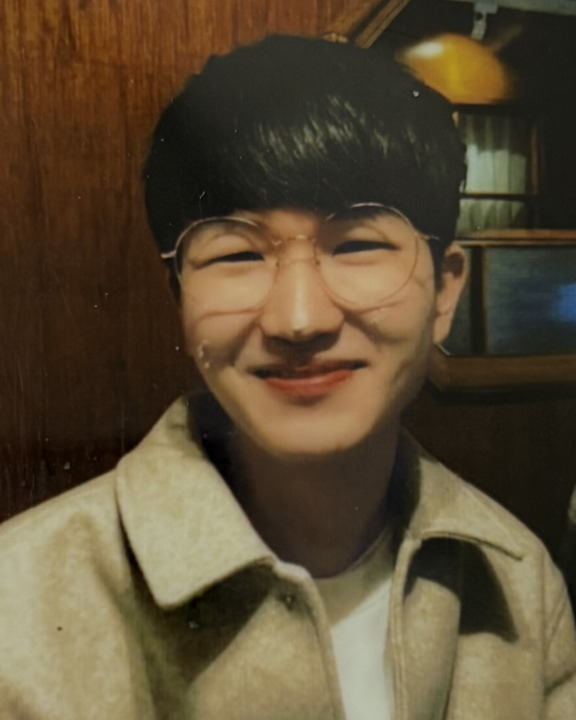
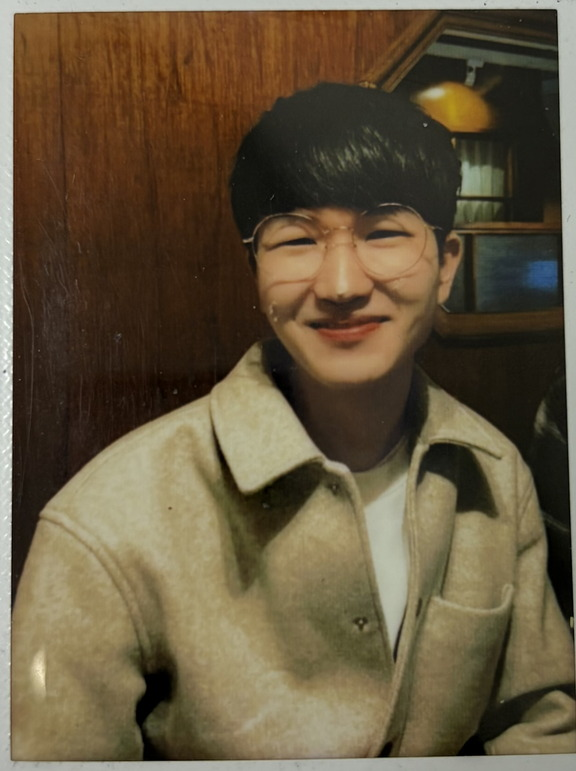
Show the full uncropped portrait; match the plate to its ratio

diff --git a/index.html b/index.html
@@ -55,8 +55,8 @@
          a skyrmion lattice, so the layout never breaks. -->
     <figure class="rail plate-fig">
       <div class="plate">
-        <svg class="plate__lattice" viewBox="0 0 144 180" aria-hidden="true" focusable="false" xmlns="http://www.w3.org/2000/svg"><defs><pattern id="skyrmions" patternUnits="userSpaceOnUse" x="0" y="0" width="48" height="90"><path class="spin s0" d="M24 5.5A17 17 0 0 1 36.02 10.48L28.24 18.26A6 6 0 0 0 24 16.5Z" fill="#DA347B"/><path class="spin s1" d="M36.02 10.48A17 17 0 0 1 41 22.5L30 22.5A6 6 0 0 0 28.24 18.26Z" fill="#C55F2A"/><path class="spin s2" d="M41 22.5A17 17 0 0 1 36.02 34.52L28.24 26.74A6 6 0 0 0 30 22.5Z" fill="#987D2B"/><path class="spin s3" d="M36.02 34.52A17 17 0 0 1 24 39.5L24 28.5A6 6 0 0 0 28.24 26.74Z" fill="#56932C"/><path class="spin s4" d="M24 39.5A17 17 0 0 1 11.98 34.52L19.76 26.74A6 6 0 0 0 24 28.5Z" fill="#319282"/><path class="spin s5" d="M11.98 34.52A17 17 0 0 1 7 22.5L18 22.5A6 6 0 0 0 19.76 26.74Z" fill="#308CAC"/><path class="spin s6" d="M7 22.5A17 17 0 0 1 11.98 10.48L19.76 18.26A6 6 0 0 0 18 22.5Z" fill="#5774ED"/><path class="spin s7" d="M11.98 10.48A17 17 0 0 1 24 5.5L24 16.5A6 6 0 0 0 19.76 18.26Z" fill="#B638E4"/><circle class="core" cx="24" cy="22.5" r="6" fill="#2B323B"/><path class="spin s0" d="M0 50.5A17 17 0 0 1 12.02 55.48L4.24 63.26A6 6 0 0 0 0 61.5Z" fill="#DA347B"/><path class="spin s1" d="M12.02 55.48A17 17 0 0 1 17 67.5L6 67.5A6 6 0 0 0 4.24 63.26Z" fill="#C55F2A"/><path class="spin s2" d="M17 67.5A17 17 0 0 1 12.02 79.52L4.24 71.74A6 6 0 0 0 6 67.5Z" fill="#987D2B"/><path class="spin s3" d="M12.02 79.52A17 17 0 0 1 0 84.5L0 73.5A6 6 0 0 0 4.24 71.74Z" fill="#56932C"/><path class="spin s4" d="M0 84.5A17 17 0 0 1 -12.02 79.52L-4.24 71.74A6 6 0 0 0 0 73.5Z" fill="#319282"/><path class="spin s5" d="M-12.02 79.52A17 17 0 0 1 -17 67.5L-6 67.5A6 6 0 0 0 -4.24 71.74Z" fill="#308CAC"/><path class="spin s6" d="M-17 67.5A17 17 0 0 1 -12.02 55.48L-4.24 63.26A6 6 0 0 0 -6 67.5Z" fill="#5774ED"/><path class="spin s7" d="M-12.02 55.48A17 17 0 0 1 0 50.5L0 61.5A6 6 0 0 0 -4.24 63.26Z" fill="#B638E4"/><circle class="core" cx="0" cy="67.5" r="6" fill="#2B323B"/><path class="spin s0" d="M48 50.5A17 17 0 0 1 60.02 55.48L52.24 63.26A6 6 0 0 0 48 61.5Z" fill="#DA347B"/><path class="spin s1" d="M60.02 55.48A17 17 0 0 1 65 67.5L54 67.5A6 6 0 0 0 52.24 63.26Z" fill="#C55F2A"/><path class="spin s2" d="M65 67.5A17 17 0 0 1 60.02 79.52L52.24 71.74A6 6 0 0 0 54 67.5Z" fill="#987D2B"/><path class="spin s3" d="M60.02 79.52A17 17 0 0 1 48 84.5L48 73.5A6 6 0 0 0 52.24 71.74Z" fill="#56932C"/><path class="spin s4" d="M48 84.5A17 17 0 0 1 35.98 79.52L43.76 71.74A6 6 0 0 0 48 73.5Z" fill="#319282"/><path class="spin s5" d="M35.98 79.52A17 17 0 0 1 31 67.5L42 67.5A6 6 0 0 0 43.76 71.74Z" fill="#308CAC"/><path class="spin s6" d="M31 67.5A17 17 0 0 1 35.98 55.48L43.76 63.26A6 6 0 0 0 42 67.5Z" fill="#5774ED"/><path class="spin s7" d="M35.98 55.48A17 17 0 0 1 48 50.5L48 61.5A6 6 0 0 0 43.76 63.26Z" fill="#B638E4"/><circle class="core" cx="48" cy="67.5" r="6" fill="#2B323B"/></pattern></defs><rect width="144" height="180" fill="url(#skyrmions)"/></svg>
-        <img src="portrait.jpg" alt="Seonpyo Kim" width="576" height="720" onerror="this.remove()">
+        <svg class="plate__lattice" viewBox="0 0 144 180" preserveAspectRatio="xMidYMid slice" aria-hidden="true" focusable="false" xmlns="http://www.w3.org/2000/svg"><defs><pattern id="skyrmions" patternUnits="userSpaceOnUse" x="0" y="0" width="48" height="90"><path class="spin s0" d="M24 5.5A17 17 0 0 1 36.02 10.48L28.24 18.26A6 6 0 0 0 24 16.5Z" fill="#DA347B"/><path class="spin s1" d="M36.02 10.48A17 17 0 0 1 41 22.5L30 22.5A6 6 0 0 0 28.24 18.26Z" fill="#C55F2A"/><path class="spin s2" d="M41 22.5A17 17 0 0 1 36.02 34.52L28.24 26.74A6 6 0 0 0 30 22.5Z" fill="#987D2B"/><path class="spin s3" d="M36.02 34.52A17 17 0 0 1 24 39.5L24 28.5A6 6 0 0 0 28.24 26.74Z" fill="#56932C"/><path class="spin s4" d="M24 39.5A17 17 0 0 1 11.98 34.52L19.76 26.74A6 6 0 0 0 24 28.5Z" fill="#319282"/><path class="spin s5" d="M11.98 34.52A17 17 0 0 1 7 22.5L18 22.5A6 6 0 0 0 19.76 26.74Z" fill="#308CAC"/><path class="spin s6" d="M7 22.5A17 17 0 0 1 11.98 10.48L19.76 18.26A6 6 0 0 0 18 22.5Z" fill="#5774ED"/><path class="spin s7" d="M11.98 10.48A17 17 0 0 1 24 5.5L24 16.5A6 6 0 0 0 19.76 18.26Z" fill="#B638E4"/><circle class="core" cx="24" cy="22.5" r="6" fill="#2B323B"/><path class="spin s0" d="M0 50.5A17 17 0 0 1 12.02 55.48L4.24 63.26A6 6 0 0 0 0 61.5Z" fill="#DA347B"/><path class="spin s1" d="M12.02 55.48A17 17 0 0 1 17 67.5L6 67.5A6 6 0 0 0 4.24 63.26Z" fill="#C55F2A"/><path class="spin s2" d="M17 67.5A17 17 0 0 1 12.02 79.52L4.24 71.74A6 6 0 0 0 6 67.5Z" fill="#987D2B"/><path class="spin s3" d="M12.02 79.52A17 17 0 0 1 0 84.5L0 73.5A6 6 0 0 0 4.24 71.74Z" fill="#56932C"/><path class="spin s4" d="M0 84.5A17 17 0 0 1 -12.02 79.52L-4.24 71.74A6 6 0 0 0 0 73.5Z" fill="#319282"/><path class="spin s5" d="M-12.02 79.52A17 17 0 0 1 -17 67.5L-6 67.5A6 6 0 0 0 -4.24 71.74Z" fill="#308CAC"/><path class="spin s6" d="M-17 67.5A17 17 0 0 1 -12.02 55.48L-4.24 63.26A6 6 0 0 0 -6 67.5Z" fill="#5774ED"/><path class="spin s7" d="M-12.02 55.48A17 17 0 0 1 0 50.5L0 61.5A6 6 0 0 0 -4.24 63.26Z" fill="#B638E4"/><circle class="core" cx="0" cy="67.5" r="6" fill="#2B323B"/><path class="spin s0" d="M48 50.5A17 17 0 0 1 60.02 55.48L52.24 63.26A6 6 0 0 0 48 61.5Z" fill="#DA347B"/><path class="spin s1" d="M60.02 55.48A17 17 0 0 1 65 67.5L54 67.5A6 6 0 0 0 52.24 63.26Z" fill="#C55F2A"/><path class="spin s2" d="M65 67.5A17 17 0 0 1 60.02 79.52L52.24 71.74A6 6 0 0 0 54 67.5Z" fill="#987D2B"/><path class="spin s3" d="M60.02 79.52A17 17 0 0 1 48 84.5L48 73.5A6 6 0 0 0 52.24 71.74Z" fill="#56932C"/><path class="spin s4" d="M48 84.5A17 17 0 0 1 35.98 79.52L43.76 71.74A6 6 0 0 0 48 73.5Z" fill="#319282"/><path class="spin s5" d="M35.98 79.52A17 17 0 0 1 31 67.5L42 67.5A6 6 0 0 0 43.76 71.74Z" fill="#308CAC"/><path class="spin s6" d="M31 67.5A17 17 0 0 1 35.98 55.48L43.76 63.26A6 6 0 0 0 42 67.5Z" fill="#5774ED"/><path class="spin s7" d="M35.98 55.48A17 17 0 0 1 48 50.5L48 61.5A6 6 0 0 0 43.76 63.26Z" fill="#B638E4"/><circle class="core" cx="48" cy="67.5" r="6" fill="#2B323B"/></pattern></defs><rect width="144" height="180" fill="url(#skyrmions)"/></svg>
+        <img src="portrait.jpg" alt="Seonpyo Kim" width="576" height="771" onerror="this.remove()">
       </div>
       <figcaption>FIG.&nbsp;1. S. Kim, 2026.</figcaption>
     </figure>

diff --git a/style.css b/style.css
@@ -232,8 +232,9 @@ time{font-variant-numeric:tabular-nums}
 .plate-fig{margin:0}
 .plate{
   position:relative;
-  width:var(--rail-w);          /* 144px, maps 1:1 onto the SVG viewBox */
-  aspect-ratio:4/5;             /* 144x180 */
+  width:var(--rail-w);          /* 144px */
+  aspect-ratio:576/771;         /* the portrait's OWN ratio, so the photo is
+                                   never cropped to fit the frame */
   background:var(--paper-2);
   border:1px solid var(--rule-2);  /* present in BOTH states: the frame is what
                                       makes the empty plate read as intentional */
@@ -249,7 +250,9 @@ time{font-variant-numeric:tabular-nums}
 .plate img{
   position:relative;z-index:1;
   width:100%;height:100%;display:block;
-  object-fit:cover;object-position:50% 30%;
+  object-fit:contain;           /* never crop: show the whole frame. With the
+                                   plate matched to the photo's ratio this is
+                                   pixel-for-pixel, with no letterbox bands. */
 }
 .plate-fig figcaption{
   font:400 var(--fs-mono-xs)/1.5 var(--mono);
